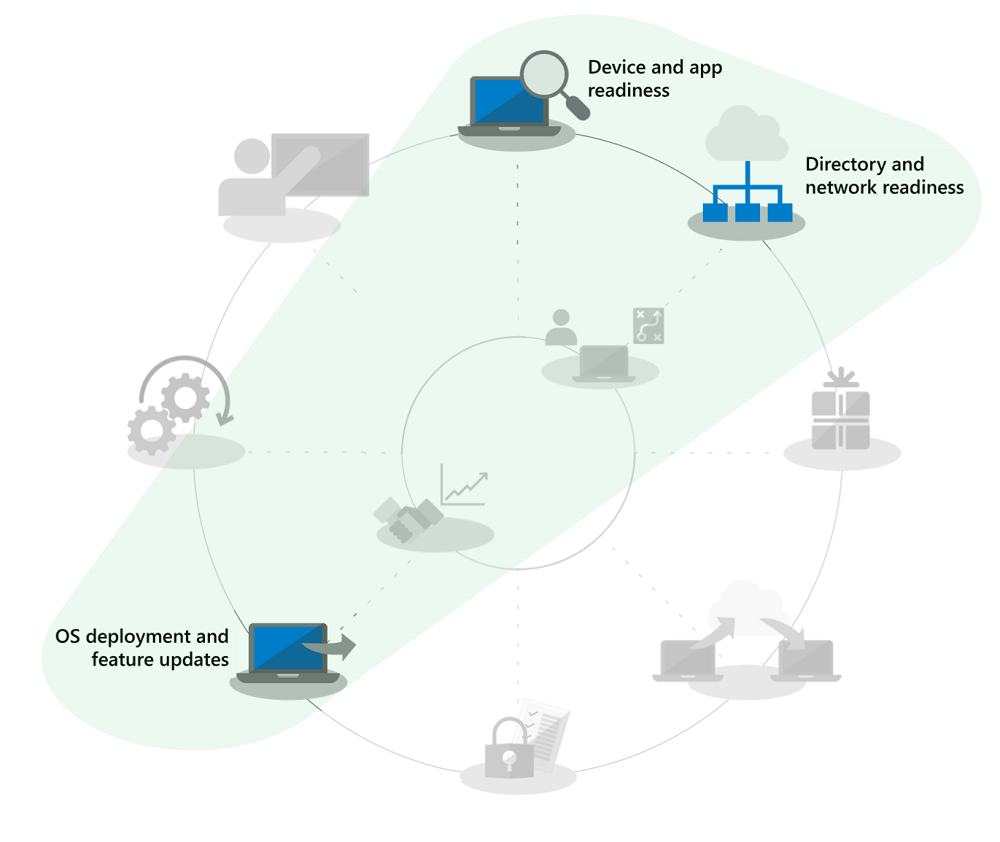
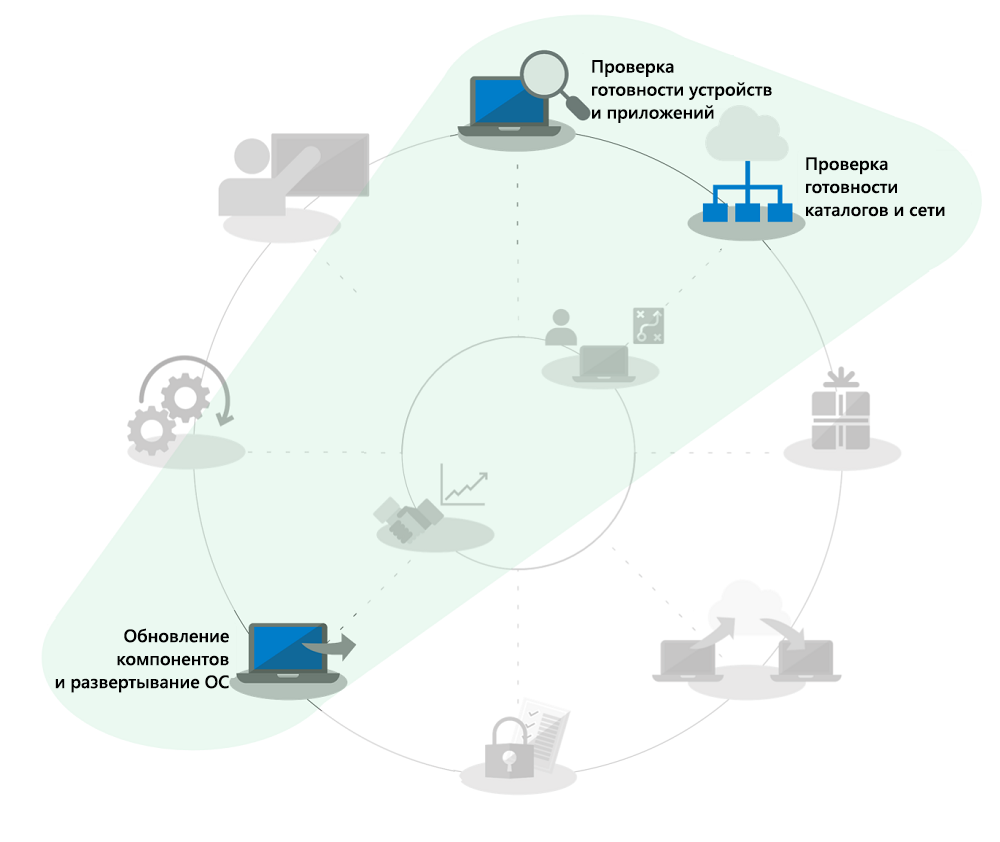
commit translated contents

Changed region(s): [[0.062, 0.7411, 0.248, 0.8337], [0.806, 0.1853, 0.961, 0.2779], [0.589, 0.0618, 0.775, 0.1544]]

diff --git a/microsoft-365/enterprise/step-2-directory-and-network-readiness.md b/microsoft-365/enterprise/step-2-directory-and-network-readiness.md
@@ -13,12 +13,12 @@ ms.collection:
 - Strat_O365_Enterprise
 ms.custom: ''
 description: В этой статье рассказывается, как оценить готовность каталогов и сети в среде.
-ms.openlocfilehash: d9ab05c9ff7d0b926f147ee4f924d95f01ccffd1
-ms.sourcegitcommit: 7e806db3d44ec223754efe1e9613b2c7117c4788
+ms.openlocfilehash: 8070d08ade5d4b29327ab88bdc36e5f2182c0016
+ms.sourcegitcommit: 03828f954b9dddb265f867fa508178ec0d4a6aeb
 ms.translationtype: HT
 ms.contentlocale: ru-RU
-ms.lasthandoff: 06/10/2019
-ms.locfileid: "34814620"
+ms.lasthandoff: 07/08/2019
+ms.locfileid: "35584575"
 ---
 # <a name="step-2-directory-and-network-readiness"></a>Этап 2. Готовность каталогов и сети
 
@@ -80,7 +80,7 @@ ms.locfileid: "34814620"
 
   [Сведения о BITS](https://docs.microsoft.com/ru-RU/windows/desktop/bits/about-bits)
 
-Если вы используете System Center Configuration Manager, вы также можете настроить точки распространения с поддержкой BITS или включить многоадресную рассылку с WDS.
+Если вы используете System Center Configuration Manager (Current Branch), вы также можете настроить точки распространения с поддержкой BITS или включить многоадресную рассылку с WDS.
 
 Регулирование определенного трафика означает, что обычный сетевой трафик меньше подвержен влиянию скачивания обновлений и приложений на компьютерах. Выделив определенный процент полосы пропускания для этих задач, вы гарантируете, что развертывание Windows или Office не повлияет на продуктивность, а процессы продолжат работать должным образом, но это может увеличить время простоя, связанного с развертыванием, во время которого пользователи не могут пользоваться компьютерами.
 
@@ -90,7 +90,7 @@ ms.locfileid: "34814620"
 
 ## <a name="scavenging-bandwidth"></a>**Очистка полосы пропускания**
 
-Фоновый транспорт с низкой добавочной задержкой (LEDBAT), поддерживаемый в Windows Server 2019 и System Center Configuration Manager версии 1806, предназначен для оптимизации сетевого трафика, адресованного клиентам Windows.
+Фоновый транспорт с низкой добавочной задержкой (LEDBAT), поддерживаемый в Windows Server 2019 и System Center Configuration Manager (Current Branch), предназначен для оптимизации сетевого трафика, адресованного клиентам Windows.
 
 [10 лучших сетевых функций в Windows Server 2019: \#9. LEDBAT — фоновый транспорт с оптимизированной задержкой](https://blogs.technet.microsoft.com/networking/2018/07/25/ledbat/)
 
@@ -110,7 +110,7 @@ ms.locfileid: "34814620"
 
 [BranchCache и одноранговый кэш](https://blogs.technet.microsoft.com/swisspfe/2018/01/25/branch-cache-vs-peer-cache/)
 
-**Оптимизация доставки.** Оптимизация доставки — это еще одна технология однорангового кэширования, предоставляющая сетевые средства управления для развертываний. Оптимизация доставки Windows 10 предназначена для обновления встроенных приложений UWP, а также для установки приложений из Microsoft Store и обновления программного обеспечения при помощи экспресс-обновлений. Она была доступна с ранних версий Windows 10, но только недавно была интегрирована с System Center Configuration Manager. Начиная с Windows 10 версии 1803, новые параметры конфигурации позволяют независимо задавать ограничения пропускной способности для фоновых обновлений и задач переднего плана, таких как установка приложений из Microsoft Store. Оптимизация доставки Windows теперь также обеспечивает поддержку Office 365 профессиональный плюс во время обновления клиентов для всех поддерживаемых каналов. Скоро будет доступна поддержка оптимизации доставки Windows во время первоначальной установки клиента Office 365.  
+**Оптимизация доставки.** Оптимизация доставки — это еще одна технология однорангового кэширования, предоставляющая сетевые средства управления для развертываний. Оптимизация доставки Windows 10 предназначена для обновления встроенных приложений UWP, а также для установки приложений из Microsoft Store и обновления программного обеспечения при помощи экспресс-обновлений. Она была доступна с ранних версий Windows 10, но только недавно была интегрирована с System Center Configuration Manager (Current Branch). Начиная с Windows 10 версии 1803, новые параметры конфигурации позволяют независимо задавать ограничения пропускной способности для фоновых обновлений и задач переднего плана, таких как установка приложений из Microsoft Store. Оптимизация доставки Windows теперь также обеспечивает поддержку Office 365 профессиональный плюс во время обновления клиентов для всех поддерживаемых каналов. Скоро будет доступна поддержка оптимизации доставки Windows во время первоначальной установки клиента Office 365.  
 
 ![](media/step-2-directory-and-network-readiness-media/step-2-directory-and-network-readiness-media-5.png)
 
